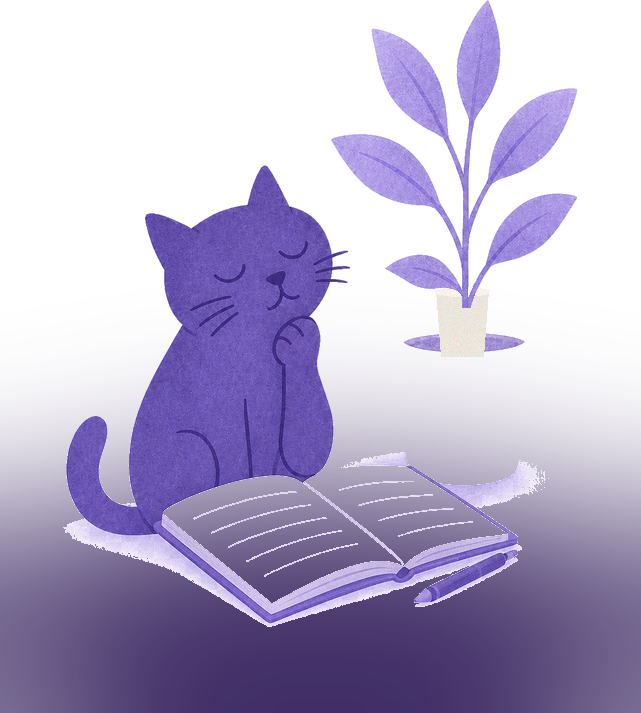
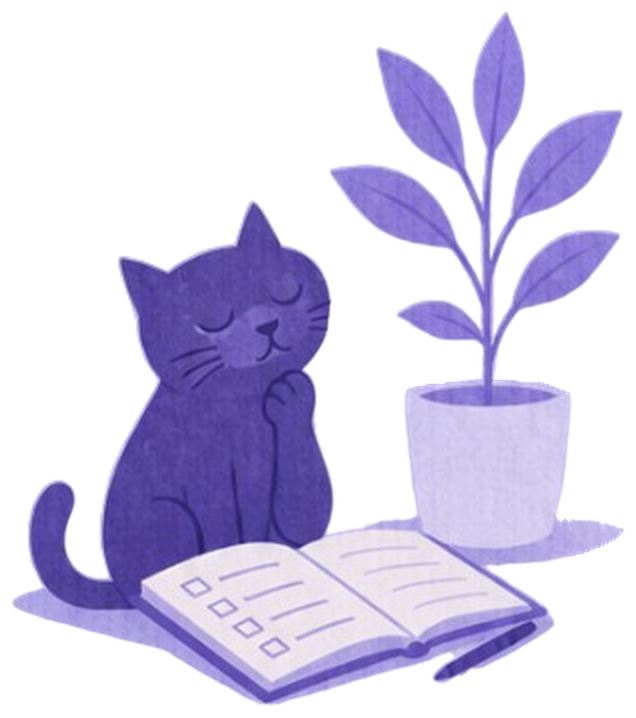
fix(pvm): Design C art-c-v14 — tip2–4 cutouts and larger illust scale
Customer tip2–4 black→alpha cutouts; enlarge .pvm-illust toward series-c proportions on all slides.

diff --git a/frontend/app/assets/main.css b/frontend/app/assets/main.css
@@ -17333,17 +17333,18 @@ button.button {
 
 .pvm-illust {
   position: absolute;
-  right: 3.5%;
+  right: 2%;
   bottom: var(--pvm-art-bottom);
   z-index: 1;
-  width: min(48%, 200px);
+  /* series-c: сцена ~60–66% ширины / ~45% высоты карточки — не «наклейка» */
+  width: min(64%, 286px);
   height: auto;
-  max-height: 29%;
+  max-height: 44%;
   object-fit: contain;
   object-position: right bottom;
   pointer-events: none;
   user-select: none;
-  max-width: min(48%, 200px);
+  max-width: min(64%, 286px);
   /* Без рамки/плиты вокруг сцены — только cutout на lavender */
   border: none;
   outline: none;
@@ -17355,19 +17356,21 @@ button.button {
 }
 
 .pvm-illust--welcome {
-  width: min(50%, 208px);
-  max-height: 31%;
-  right: 2.5%;
-  bottom: calc(var(--pvm-nav-h) + 12px);
+  width: min(66%, 296px);
+  max-width: min(66%, 296px);
+  max-height: 46%;
+  right: 1.5%;
+  bottom: calc(var(--pvm-nav-h) + 8px);
 }
 
 .pvm-illust--intro {
-  width: min(56%, 228px);
-  max-height: 30%;
-  right: 10%;
-  left: 10%;
+  width: min(68%, 304px);
+  max-width: min(68%, 304px);
+  max-height: 46%;
+  right: 6%;
+  left: 6%;
   margin-inline: auto;
-  bottom: calc(var(--pvm-nav-h) + 14px);
+  bottom: calc(var(--pvm-nav-h) + 10px);
   object-position: center bottom;
 }
 
@@ -17375,9 +17378,10 @@ button.button {
 .pvm-illust--fresh,
 .pvm-illust--weekend,
 .pvm-illust--triggers {
-  width: min(46%, 198px);
-  max-height: 28%;
-  right: 3.5%;
+  width: min(64%, 286px);
+  max-width: min(64%, 286px);
+  max-height: 44%;
+  right: 2%;
   bottom: var(--pvm-art-bottom);
 }
 
@@ -17434,8 +17438,8 @@ button.button {
 }
 
 .pvm-card--welcome .pvm-copy {
-  max-width: min(78%, 17rem);
-  padding-bottom: 18%;
+  max-width: min(68%, 15.5rem);
+  padding-bottom: 26%;
 }
 
 .pvm-slide--intro .pvm-copy {
@@ -17454,8 +17458,8 @@ button.button {
 .pvm-slide--fresh .pvm-copy,
 .pvm-slide--weekend .pvm-copy,
 .pvm-slide--triggers .pvm-copy {
-  max-width: min(88%, 20.5rem);
-  padding-bottom: 4%;
+  max-width: min(72%, 17.5rem);
+  padding-bottom: 18%;
 }
 
 .pvm-text {

diff --git a/frontend/app/data/postVacationMemoSlides.ts b/frontend/app/data/postVacationMemoSlides.ts
@@ -14,7 +14,7 @@ export type PostVacationMemoSlide = {
   laterCta?: string;
 };
 
-const ART_V = 'art-c-v13';
+const ART_V = 'art-c-v14';
 
 /** Первый экран: тепло, без акцента что выход = хандра. */
 export const POST_VACATION_WELCOME: PostVacationMemoSlide = {

diff --git a/docs/CHANGELOG.md b/docs/CHANGELOG.md
@@ -4,6 +4,12 @@
 
 ## 2026-08-27
 
+### Памятка Design C: tip2–4 cutouts + крупнее арт (art-c-v14)
+- Арт: заказчикские cutouts → `pvm-c-art-tip2.png` (кот+стол/ноут), `pvm-c-art-tip3.png` (идущий кот+растение/боулинг/билет), `pvm-c-art-tip4.png` (кот+блокнот+растение). Black→true alpha; горшки и ground-band сохранены; без шахматки/рамки. welcome/intro/tip1/chip без смены ассетов.
+- Layout: `.pvm-illust` увеличен под пропорции series-c (~64% ширины / ~44% высоты вместо ~46%/28% и капа ~200px); tip-copy чуть уже + больше `padding-bottom`, чтобы текст не наезжал на сцену.
+- Cache-bust `?v=art-c-v14`. Файлы: `public/memos/pvm-c-art-tip{2,3,4}.png`, `postVacationMemoSlides.ts`, `main.css`.
+- Проверка: `http://45.12.74.25:8080/?pvm=1` (hard refresh) — tip2–4 новый арт, коты заметно крупнее на всех слайдах. Прод не трогали.
+
 ### Памятка Design C: новые cutouts welcome/intro/tip1 + чип (art-c-v13)
 - Арт: заказчикские cutouts → `pvm-c-art-welcome.png` (потягивающийся кот), `pvm-c-art-intro.png` (смотрит вправо), `pvm-c-art-tip1.png` (глаза закрыты), новый `pvm-c-art-chip.png` (кот+чемодан без растения). Black→true alpha; cream-горшки и фиолетовая ground-band сохранены. tip2–tip4 без смены.
 - UI: чип/свёртка берёт `POST_VACATION_CHIP_SRC`, не welcome; у `.pvm-illust` явно без рамки; `.pvm-card__paper` — сильнее vertical linen (как series-c-01).
